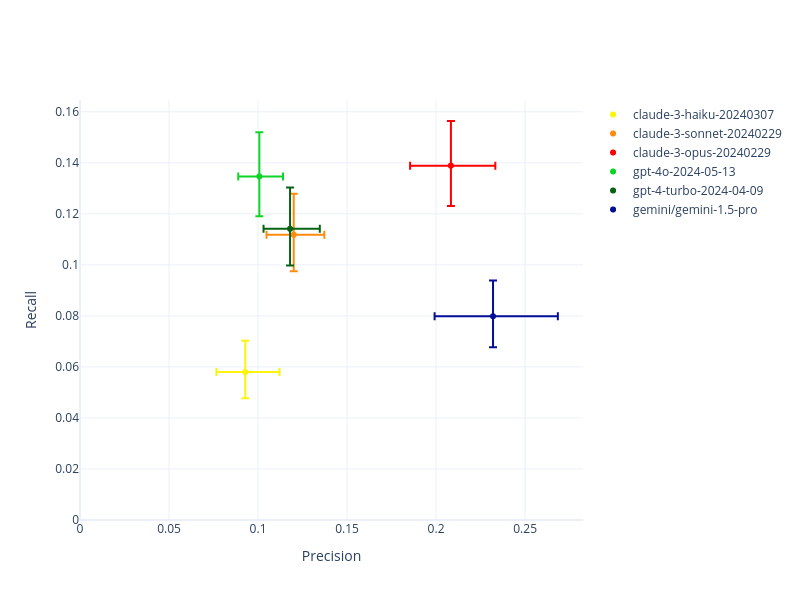
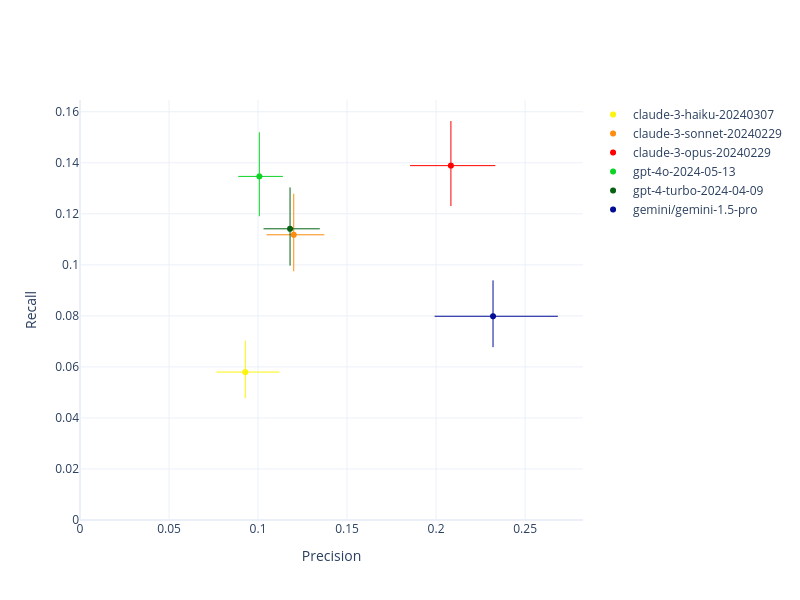
improve plotting

diff --git a/eyeballvul_experiments/results.py b/eyeballvul_experiments/results.py
@@ -206,6 +206,8 @@ def plot_overall_performance(
                 - df.loc[df["model"] == model, "precision"],
                 arrayminus=df.loc[df["model"] == model, "precision"]
                 - df.loc[df["model"] == model, "precision_ci_low"],
+                width=0,
+                thickness=1,
             ),
             error_y=dict(
                 type="data",
@@ -214,6 +216,8 @@ def plot_overall_performance(
                 - df.loc[df["model"] == model, "recall"],
                 arrayminus=df.loc[df["model"] == model, "recall"]
                 - df.loc[df["model"] == model, "recall_ci_low"],
+                width=0,
+                thickness=1,
             ),
         )
         traces.append(trace)
